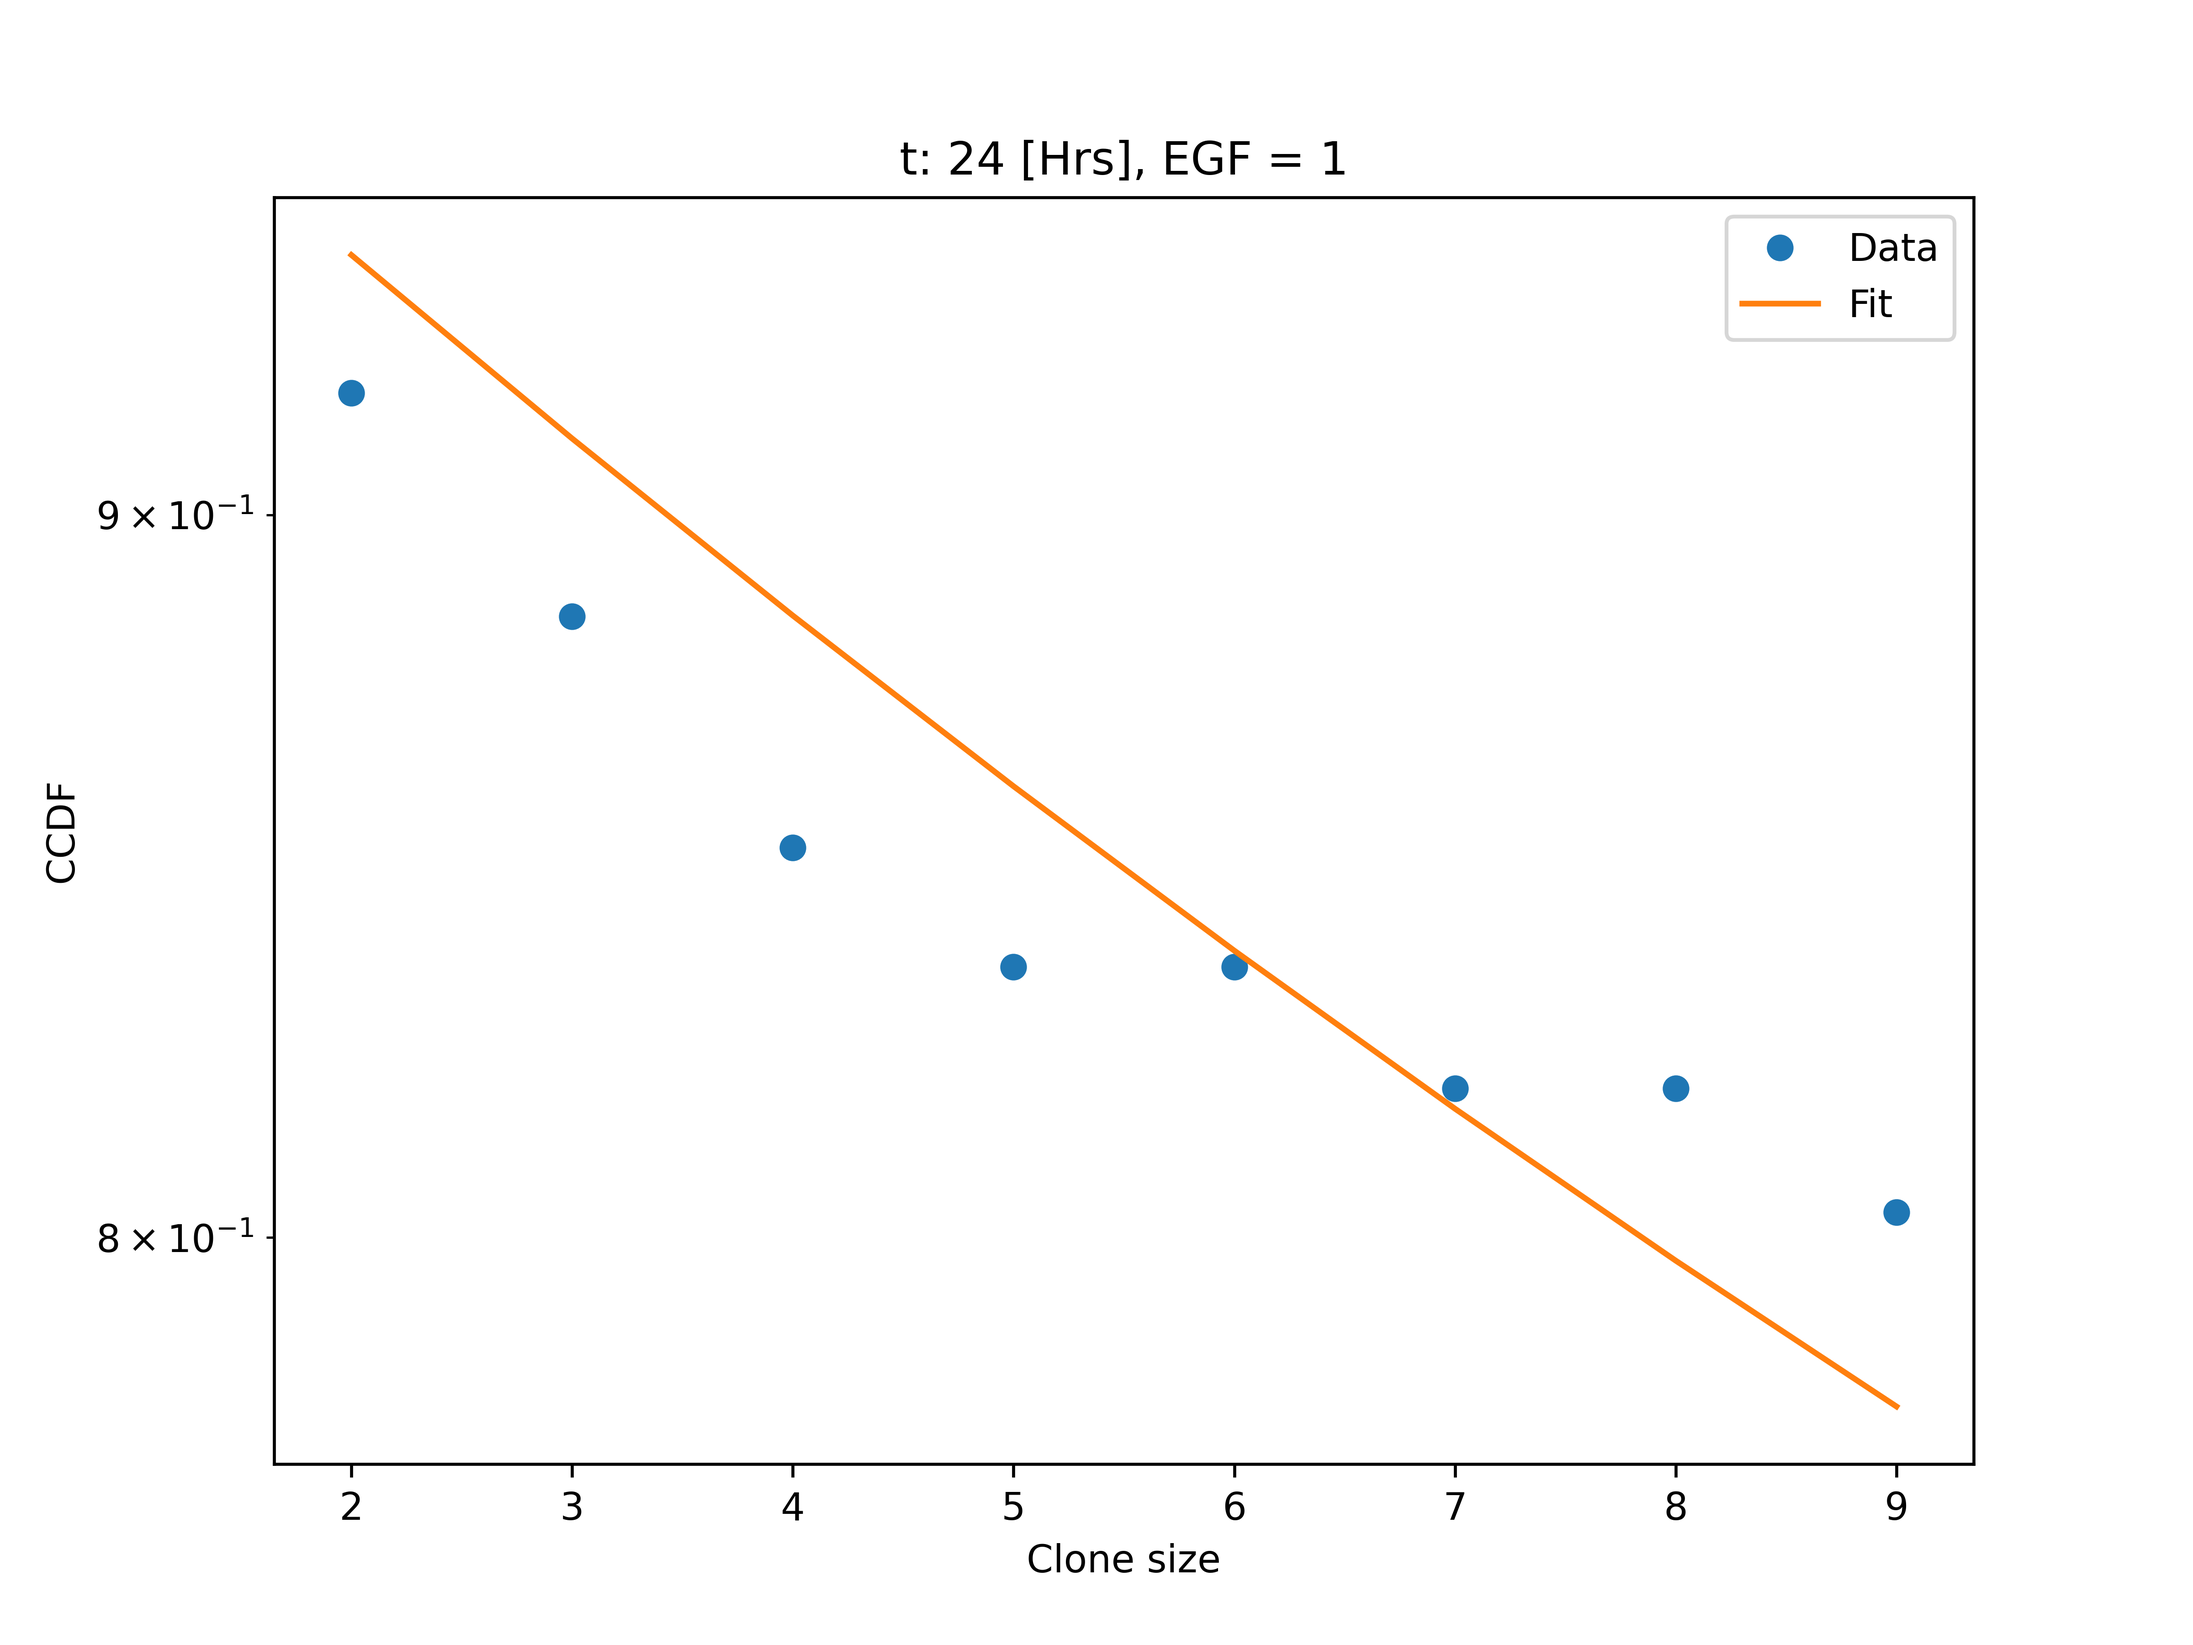
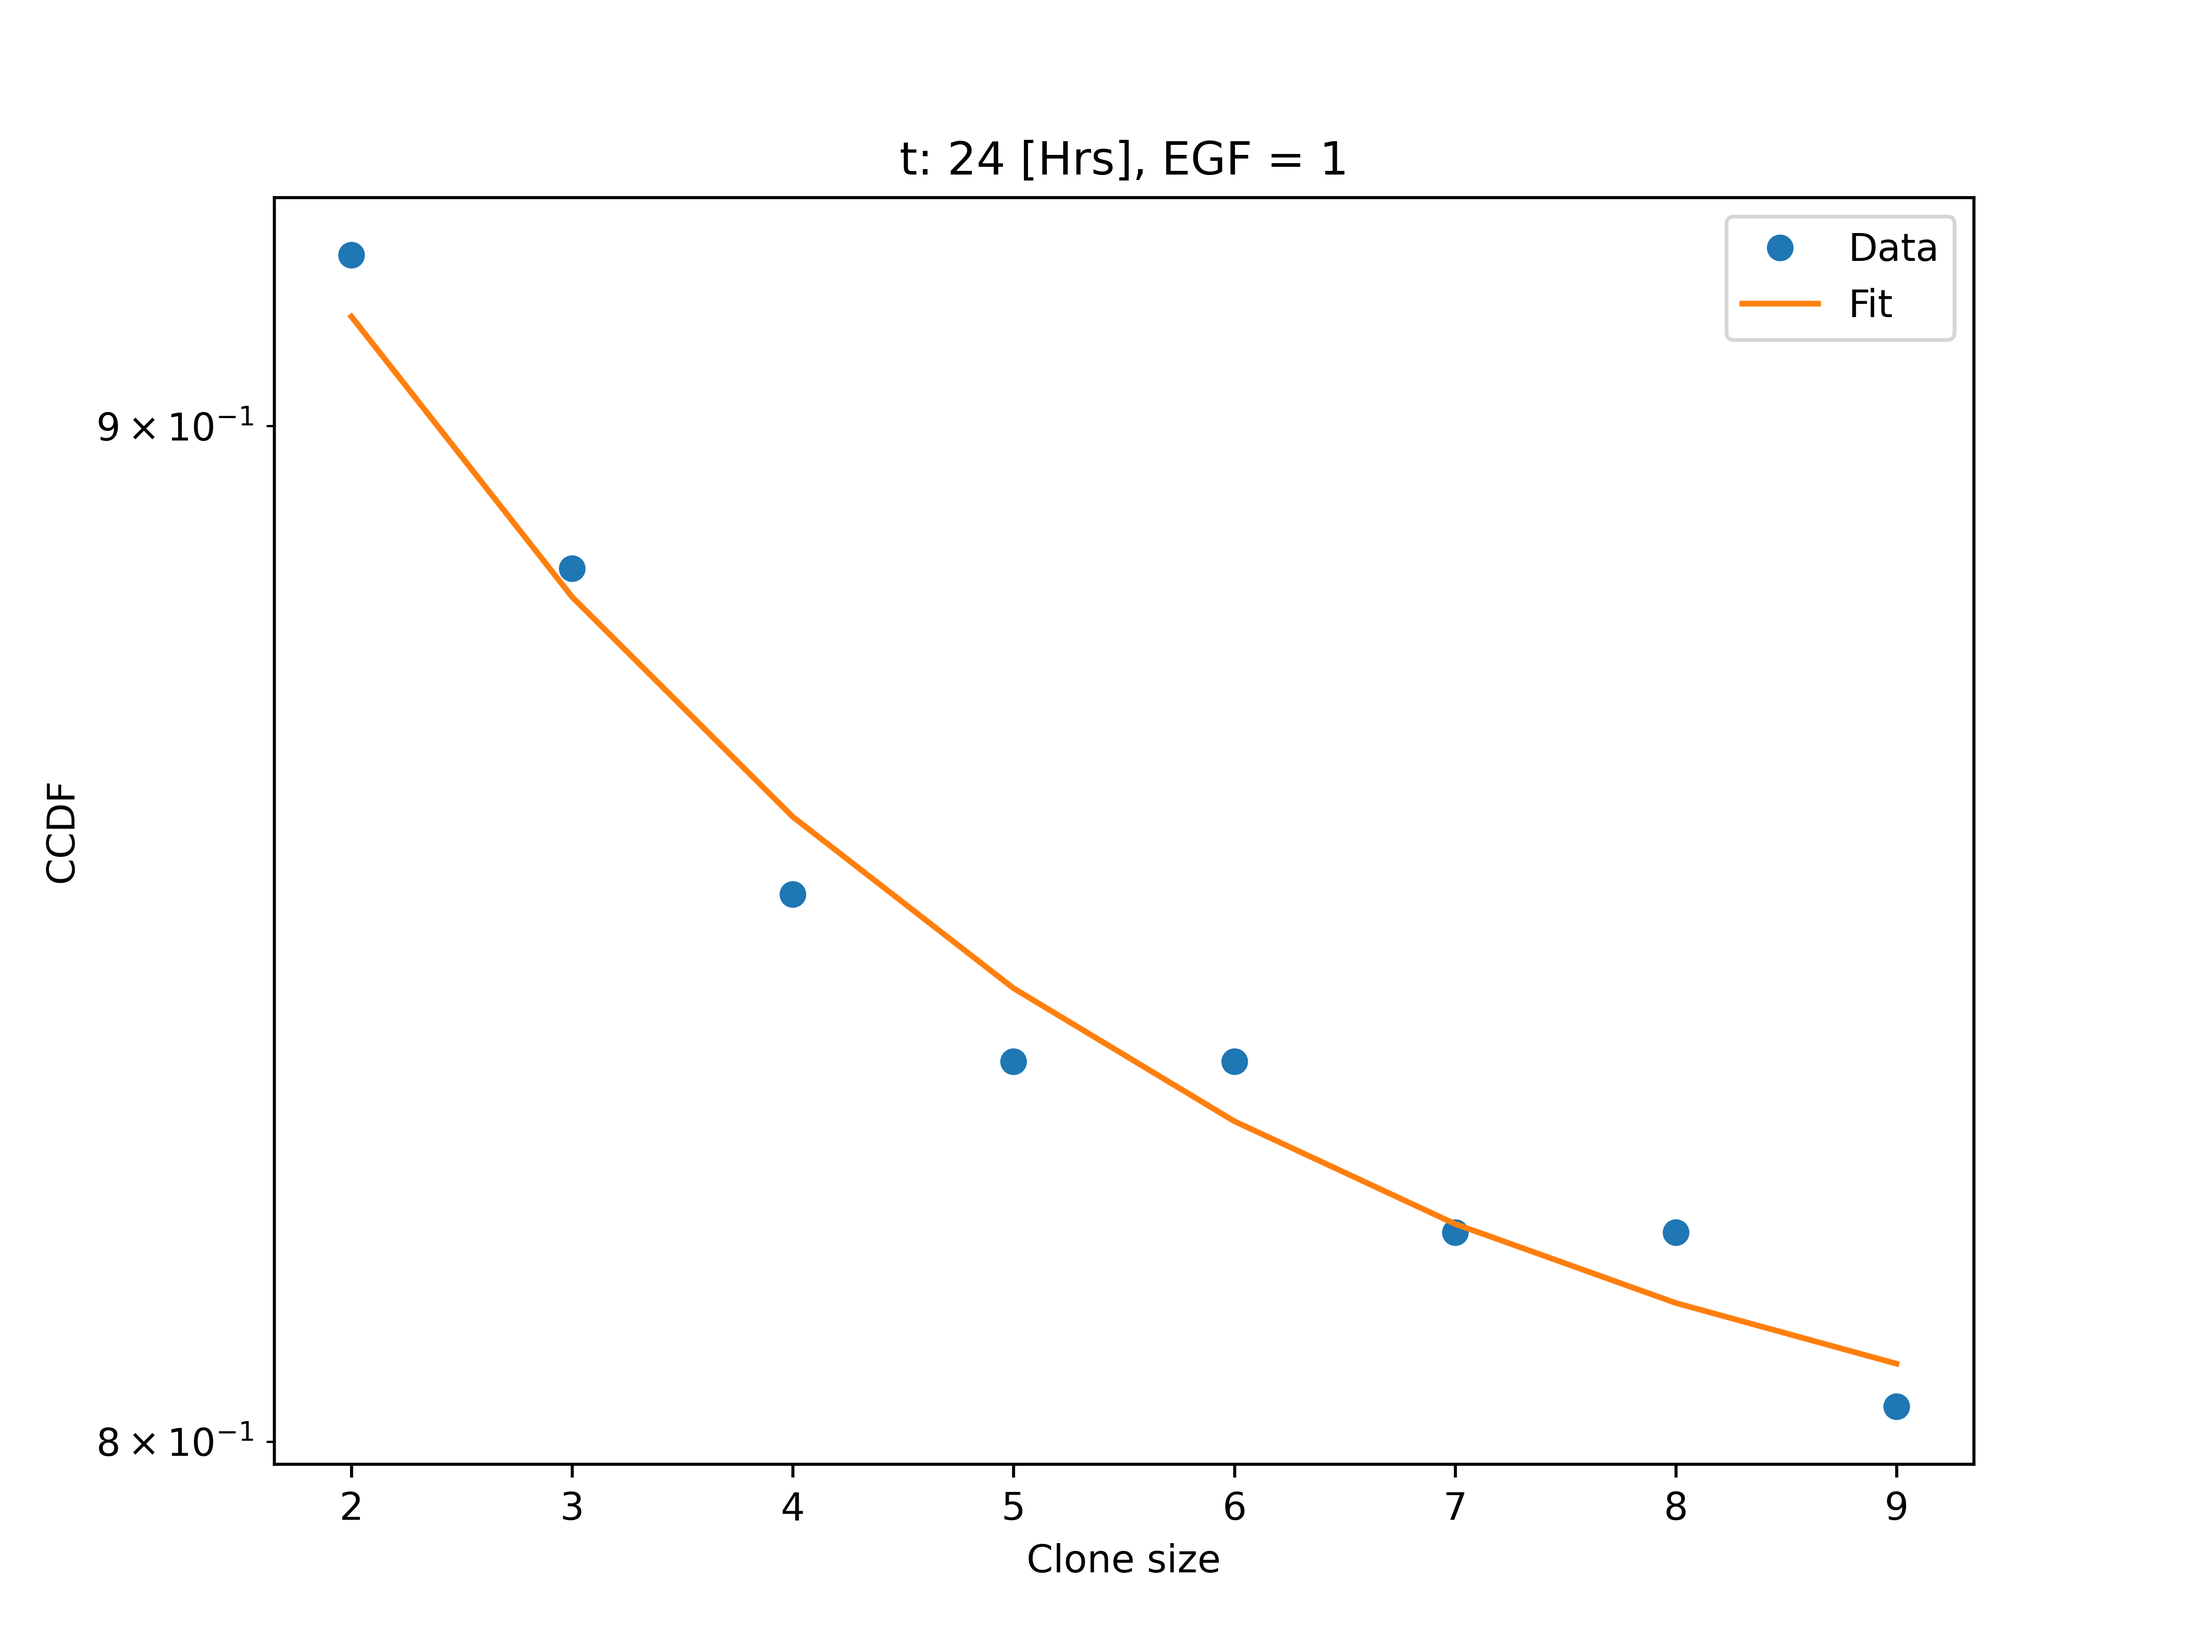
Filled with determination

diff --git a/exp_sum_model.py b/exp_sum_model.py
@@ -6,12 +6,12 @@ from scipy.optimize import curve_fit
 # Note: this needs a more careful choice of initial guess than the current one.
 
 
-def biexponential_ccdf(n, rate_1, rate_2):
-    ccdf = .5*(np.exp(-rate_1*n) + np.exp(-rate_2*n))
+def biexponential_ccdf(n, rate_1, rate_2, convex_coeff):  # Hacer la combinación convexa de dos exponenciales.
+    ccdf = convex_coeff*np.exp(-rate_1*n) + (1-convex_coeff)*np.exp(-rate_2*n)
     return ccdf
 
-def log_biexponential_ccdf(n, rate_1, rate_2):
-    logccdf = np.log(.5*(np.exp(-rate_1*n) + np.exp(-rate_2*n)))
+def log_biexponential_ccdf(n, rate_1, rate_2, convex_coeff):
+    logccdf = np.log(convex_coeff*np.exp(-rate_1*n) + (1-convex_coeff)*np.exp(-rate_2*n))
     return logccdf
 
 def estimate_parameters(ndata, ccdfdata, initial_guess, bounds):
@@ -32,17 +32,17 @@ if __name__ == '__main__':
 
     # Initial guess for parameters.
 
-    initial_guess = [0.002, 0.001]
+    initial_guess = [0.002, 0.001, .5]
     tcodes = [1, 2, 3, 4, 5, 6, 7, 8]
 
     with open('expsum_params.csv', 'w') as file:
 
-        file.write(f"tcode, rate_1, rate_2, r_score\n")
+        file.write(f"tcode, rate_1, rate_2, convex_coefficient, r_score\n")
 
         for tcode in tcodes:
             data = an.read_excel_data(datalocation)
             ndata, ccdfdata = an.ccdf_at_tcode(tcode, data)
-            bounds = ([0, 0], [10, 10])  # Tuneable.
+            bounds = ([0, 0, 0], [10, 10, 1])  # Tuneable.
 
             print(f"\n Processing tcode {tcode}, with initial params {initial_guess}\n")
 
@@ -51,7 +51,7 @@ if __name__ == '__main__':
             print(f"\n Params at tcode {tcode}: {params}\n")
 
             r2 = an.r_score(log_biexponential_ccdf, params, ndata, np.log(ccdfdata))
-            file.write(f"{tcode}, {params[0]}, {params[1]}, {r2}\n")
+            file.write(f"{tcode}, {params[0]}, {params[1]}, {params[2]}, {r2}\n")
 
             t = [24, 24, 3*24, 3*24, 6*24, 6*24, 13*24, 13*24][tcode-1]
 
@@ -59,7 +59,7 @@ if __name__ == '__main__':
             fig.clf()
             ax = fig.add_subplot(111)
             ax.plot(ndata, ccdfdata, 'o', label='Data')
-            ax.plot(ndata, biexponential_ccdf(ndata, params[0], params[1]), label='Fit')
+            ax.plot(ndata, biexponential_ccdf(ndata, params[0], params[1], params[2]), label='Fit')
             ax.set_title(f"t: {t} [Hrs], EGF = {-1 + 2*(tcode % 2)}")
             ax.set_yscale('log')
             ax.set_xlabel('Clone size')
